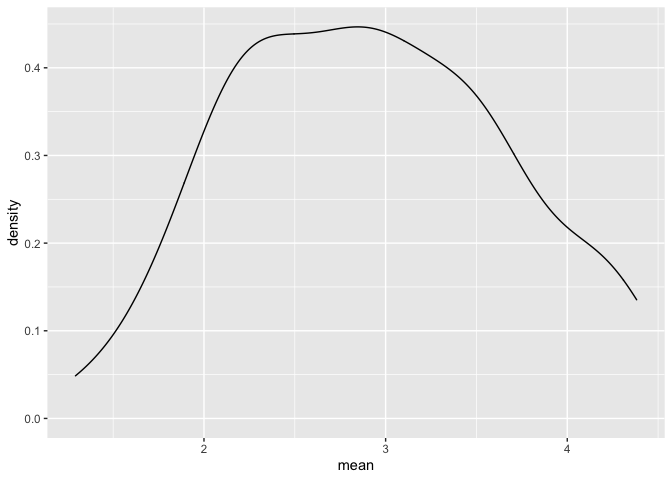
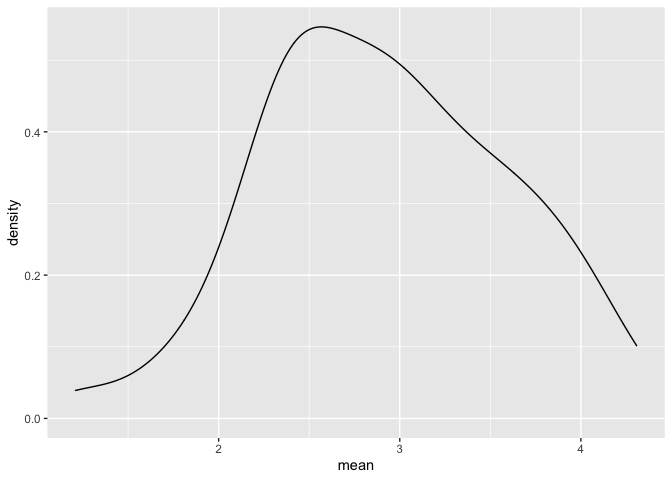
simulation df

diff --git a/iteration.md b/iteration.md
@@ -10,11 +10,11 @@ x_vec = rnorm(25, mean = 5, sd = 4)
 (x_vec - mean(x_vec)) / sd(x_vec)
 ```
 
-    ##  [1] -0.43711687 -0.14018392  1.70817417  1.08111861 -0.85543794 -2.03145792
-    ##  [7] -0.10826190 -0.33507591  1.14142730 -0.83336183 -0.90912969 -0.45192956
-    ## [13] -0.42626540 -0.06574881  0.39052190 -0.44820644 -0.81261562  0.23121242
-    ## [19] -0.04561811  0.47984147 -0.43971477  3.13999599  0.07801675  0.31258891
-    ## [25] -0.22277282
+    ##  [1] -0.83687228  0.01576465 -1.05703126  1.50152998  0.16928872 -1.04107494
+    ##  [7]  0.33550276  0.59957343  0.42849461 -0.49894708  1.41364561  0.23279252
+    ## [13] -0.83138529 -2.50852027  1.00648110 -0.22481531 -0.19456260  0.81587675
+    ## [19]  0.68682298  0.44756609  0.78971253  0.64568566 -0.09904161 -2.27133861
+    ## [25]  0.47485186
 
 ``` r
 z_scores = function(x){
@@ -25,24 +25,24 @@ z_scores = function(x){
 z_scores(x = x_vec)
 ```
 
-    ##  [1] -0.43711687 -0.14018392  1.70817417  1.08111861 -0.85543794 -2.03145792
-    ##  [7] -0.10826190 -0.33507591  1.14142730 -0.83336183 -0.90912969 -0.45192956
-    ## [13] -0.42626540 -0.06574881  0.39052190 -0.44820644 -0.81261562  0.23121242
-    ## [19] -0.04561811  0.47984147 -0.43971477  3.13999599  0.07801675  0.31258891
-    ## [25] -0.22277282
+    ##  [1] -0.83687228  0.01576465 -1.05703126  1.50152998  0.16928872 -1.04107494
+    ##  [7]  0.33550276  0.59957343  0.42849461 -0.49894708  1.41364561  0.23279252
+    ## [13] -0.83138529 -2.50852027  1.00648110 -0.22481531 -0.19456260  0.81587675
+    ## [19]  0.68682298  0.44756609  0.78971253  0.64568566 -0.09904161 -2.27133861
+    ## [25]  0.47485186
 
 ``` r
 y_vec = rnorm(40, mean = 12, sd = 0.3)
 z_scores(y_vec)
 ```
 
-    ##  [1]  0.35903309  0.98960614  2.24259130 -0.02563529  1.16494425  0.64489659
-    ##  [7] -0.81740437 -1.75539728 -0.04337247 -1.22376616  0.48605341  0.53102819
-    ## [13]  0.16518599 -0.24294157 -1.18129220 -0.65068383  0.67168690 -0.92735719
-    ## [19]  1.64619888  0.18732896  0.97675976 -1.55352996 -0.24180350  2.40391546
-    ## [25] -0.15068323 -0.43809521  0.94300981  1.35016536 -1.90006410 -0.08270438
-    ## [31] -0.34417728 -0.07313673 -0.77930603  0.52500601  0.03002733 -0.73349687
-    ## [37] -1.15657000 -0.67469356  0.17202799 -0.49335419
+    ##  [1] -0.2022306 -0.3204049 -1.8795425 -0.7026191  0.3598721  1.4753003
+    ##  [7] -0.2575539  0.3239812 -0.1994754 -1.7684514 -0.6277359 -0.6031866
+    ## [13] -0.2060066  1.1686154  0.7692145 -0.3307538 -0.4360887  0.6907069
+    ## [19]  0.5243537 -0.9523331 -0.9745524  0.2966039  0.7755665 -0.2688873
+    ## [25]  0.9090459  0.3363531 -0.8613556  0.2687848 -1.4747590  1.5634498
+    ## [31]  2.2124710 -0.5710916 -1.3737041  0.5398346 -0.2958126  2.7119068
+    ## [37] -0.1822057  0.6821414 -0.1024770 -1.0169742
 
 ``` r
 z_scores = function(x){
@@ -103,7 +103,7 @@ mean_and_sd(x_vec)
     ## # A tibble: 1 × 2
     ##    mean    sd
     ##   <dbl> <dbl>
-    ## 1  4.51  4.09
+    ## 1  5.67  3.80
 
 ``` r
 mean_and_sd(y_vec)
@@ -112,7 +112,7 @@ mean_and_sd(y_vec)
     ## # A tibble: 1 × 2
     ##    mean    sd
     ##   <dbl> <dbl>
-    ## 1  12.0 0.277
+    ## 1  12.0 0.253
 
 ## Different sample sizes, means, sds
 
@@ -132,7 +132,7 @@ sim_data %>%
     ## # A tibble: 1 × 2
     ##    mean    sd
     ##   <dbl> <dbl>
-    ## 1  1.80  2.82
+    ## 1  2.51  2.82
 
 function that simulates data, compute mean and sd.
 
@@ -156,7 +156,7 @@ sim_mean_sd(30, 4, 3)
     ## # A tibble: 1 × 2
     ##    mean    sd
     ##   <dbl> <dbl>
-    ## 1  3.92  3.44
+    ## 1  3.96  2.43
 
 ## Napoleon dynamics
 
@@ -257,14 +257,14 @@ l[[3]]
 ```
 
     ##    Min. 1st Qu.  Median    Mean 3rd Qu.    Max. 
-    ##  -3.796   2.818   4.972   4.889   6.894  13.554
+    ##  -4.024   2.746   4.892   4.912   7.065  16.431
 
 ``` r
 l[["summary"]]
 ```
 
     ##    Min. 1st Qu.  Median    Mean 3rd Qu.    Max. 
-    ##  -3.796   2.818   4.972   4.889   6.894  13.554
+    ##  -4.024   2.746   4.892   4.912   7.065  16.431
 
 ## List of normals
 
@@ -283,7 +283,7 @@ mean_and_sd(list_norms[[1]])
     ## # A tibble: 1 × 2
     ##    mean    sd
     ##   <dbl> <dbl>
-    ## 1  2.23 0.900
+    ## 1  1.71  1.00
 
 ## for loop
 
@@ -324,46 +324,47 @@ listcol_df %>% pull(norms)
 ```
 
     ## $a
-    ##  [1] 2.6903686 1.8253004 3.8271614 3.9130585 1.6992286 2.6959533 1.7762231
-    ##  [8] 2.6260563 0.7852765 3.0545501 0.9199900 2.1489123 1.6494497 2.6229096
-    ## [15] 2.3260358 4.2650253 2.5246871 3.2135467 2.7642194 2.5262783 2.0420693
-    ## [22] 2.6759306 1.9525130 2.7255379 1.3621091 1.6878070 2.7065168 1.0310138
-    ## [29] 0.0703726 2.5024660 3.1538021 2.5860972 1.1614528 0.9235214 1.0752719
-    ## [36] 3.7547171 2.4260437 2.3773982 2.7135119 0.2397341 2.5691171 1.8562197
-    ## [43] 2.0951570 1.4787562 2.1722275 3.1790355 2.5122115 2.7377488 2.4964681
-    ## [50] 1.4206862
+    ##  [1]  0.7410786  1.7846155 -0.4719617  1.3258307  1.4987028  3.5423258
+    ##  [7]  1.0379819  1.1278205  0.6023704  2.1798052  3.1540920  0.8014664
+    ## [13]  1.5742756  3.3663086  1.3157026  2.6855122  2.3895035  0.6946041
+    ## [19]  3.2168880  2.7951740  1.5117975  1.0960065  1.6095816  2.8140634
+    ## [25]  1.4357507  0.1257947  1.8570953  2.7719040  0.8408821  1.7620845
+    ## [31]  0.7778067  2.1168062  1.8675004  1.9663152  1.3776736  1.2906365
+    ## [37]  2.8714454  2.1051380  1.8130647 -1.2131885  0.7243813  2.7629063
+    ## [43]  1.5931849  0.7916822  1.5606773  1.6244193  1.4985576  2.4966126
+    ## [49]  3.5208809  2.9880918
     ## 
     ## $b
-    ##  [1]  9.6594668  6.4046556  4.7300039  5.5892436  6.6958655  8.5531960
-    ##  [7]  8.4249796  4.3823460 -1.2457299  6.7868122  4.2415377  3.7271447
-    ## [13]  0.7949788  4.6949061  3.5135336 -2.5040186  1.4359849 12.3706074
-    ## [19]  6.0332532  5.2380276  3.7485568  8.9307606  3.4700870  2.3586212
-    ## [25]  8.2269017  8.0010642  4.1566152  3.4861122  8.1704887  1.1670985
-    ## [31]  7.7014087  9.9658587  2.8622266  2.2627031  4.1353049  7.1668366
-    ## [37]  8.1889401  4.9537960  2.5133060  2.6531727 10.4746371  3.7691169
-    ## [43]  9.7532999  4.6105855  1.2029883  2.5852074  4.4814050  2.5515313
-    ## [49] -3.0417780  6.3206888
+    ##  [1]  8.7383676  4.0103980  7.5330341  2.0567727  4.5823358 11.5563137
+    ##  [7]  4.9615160  4.0840732  3.2473596  7.3138055 11.3185681  6.2364711
+    ## [13]  4.2162054 11.2213509  2.6635093  8.3945975  3.7359646  1.9347579
+    ## [19]  8.6549161 -0.3992820  4.0752502  5.0465457  3.6730468  0.0859768
+    ## [25]  3.0757965  0.3288928 10.7694910 -0.5704889 -1.3183553  7.0929456
+    ## [31]  7.7223332  4.4120354  4.3795385  7.1751295  9.1961569  0.2283346
+    ## [37]  8.9134912  5.5880352  3.9819697  8.7954324  7.8193211  8.8338575
+    ## [43]  4.1265196  7.3285173  5.8871769  3.4484013 10.2716991  5.4851805
+    ## [49]  4.8359469  6.5869148
     ## 
     ## $c
-    ##  [1]  9.478453 11.561954  9.547016  9.857999 10.741062 10.220948 10.862210
-    ##  [8]  7.698177  9.849106  9.476663 11.328898 10.931334 11.420621 10.278794
-    ## [15] 10.435565  9.208590 10.539227  9.323899  8.177762  8.700510  9.168897
-    ## [22] 10.008930 12.099150  8.907996  8.923615 11.165103  8.539796  8.718438
-    ## [29] 11.364123 10.681480 12.780718  9.857491  9.567151  6.653682  7.780054
-    ## [36] 10.040382 10.126318 12.598828  8.997552 13.103531  8.804086  9.852558
-    ## [43] 12.179140  7.498842  9.908912 11.151204  8.762803  7.865865  9.208216
-    ## [50]  9.811679
+    ##  [1] 10.584602  8.941343  9.920232 13.909667  9.891110  9.555592 11.101496
+    ##  [8] 10.602221  9.192548  8.375916 11.271702 10.178268 10.723371  9.563013
+    ## [15]  7.521835 10.103642 13.585865  7.807342  8.522791  7.995919  9.452303
+    ## [22] 12.072181  9.770024  9.616643  8.067059 10.097900 11.552990 13.390324
+    ## [29] 11.972044  8.694965  9.245305 10.911183  9.984938 10.412995  8.031552
+    ## [36]  9.360205  8.610394  8.607163  8.921649  9.377814  9.991498 10.950173
+    ## [43]  9.236229  8.714487 12.424251 11.490800 11.045269 12.549956  8.533387
+    ## [50] 13.073226
     ## 
     ## $d
-    ##  [1]  -4.708969  -9.261615  -9.896189  -3.537905  -8.453213  -8.345434
-    ##  [7]  -9.634360  -1.217333  -6.232883  -2.795823  -7.644747  -1.807396
-    ## [13]  -4.353945  -2.311417  -6.464605  -4.472553 -10.863738  -9.976872
-    ## [19] -10.296643  -7.078749  -4.853668 -11.388467  -4.110038  -4.611866
-    ## [25]  -3.768028  -4.590293 -15.266061 -10.056638   1.635761  -6.727535
-    ## [31]  -3.441512 -14.609772 -16.661974  -6.306116 -12.110433  -9.443734
-    ## [37]  -6.934991  -9.040049  -3.934465  -3.790642  -3.174336  -5.367005
-    ## [43]  -6.796617 -11.806060 -10.892601  -4.379100 -13.010142 -15.723184
-    ## [49] -10.703635  -1.209279
+    ##  [1]  -3.0942027  -6.7719080  -5.5026681  -7.7546342  -8.4433032 -14.3049342
+    ##  [7]  -5.0296406   0.5692936   0.3590918  -7.3208227  -8.4315112  -7.2720220
+    ## [13]  -3.4162873  -2.0908047  -6.3682234  -3.5428851  -8.1083034  -6.0091112
+    ## [19]  -3.2574399   6.5582945  -8.2160104 -10.6725893  -6.2167682  -9.6233010
+    ## [25]  -5.4588674  -6.6350064  -2.7353313 -11.8391059 -12.8223008  -1.7297078
+    ## [31]  -7.0988568 -11.6896426 -12.2950896 -10.2094331  -5.6381544 -10.1091016
+    ## [37]  -2.6326153  -7.0246215  -7.2164768  -8.0620789  -9.1903093  -8.6707166
+    ## [43]  -3.3740857 -13.3550560  -3.6529249  -9.4027368  -5.0611070  -8.2336579
+    ## [49] -13.3832516  -6.6123789
 
 ``` r
 listcol_df %>% filter(name == "a")
@@ -687,7 +688,7 @@ napoleon_df %>%
     ## 10 Classic Film                                          5.0 ou… "\n  Had to or…
     ## # … with 40 more rows
 
-Simulation
+## Simulation
 
 start with a for loop
 
@@ -704,16 +705,16 @@ bind_rows(output)
     ## # A tibble: 100 × 2
     ##     mean    sd
     ##    <dbl> <dbl>
-    ##  1  2.95  3.50
-    ##  2  2.89  3.70
-    ##  3  1.83  4.44
-    ##  4  3.43  3.65
-    ##  5  2.00  3.76
-    ##  6  3.06  3.48
-    ##  7  3.31  4.47
-    ##  8  3.67  3.07
-    ##  9  3.57  3.68
-    ## 10  3.47  3.57
+    ##  1  1.73  3.61
+    ##  2  1.98  3.42
+    ##  3  2.50  3.31
+    ##  4  4.86  4.66
+    ##  5  2.36  4.25
+    ##  6  3.32  3.27
+    ##  7  3.26  4.67
+    ##  8  3.29  3.33
+    ##  9  2.58  4.40
+    ## 10  2.69  3.96
     ## # … with 90 more rows
 
 use a loop function
@@ -744,7 +745,7 @@ sim_results %>%
     ## # A tibble: 1 × 2
     ##   avg_sample_mean ad_samp_mean
     ##             <dbl>        <dbl>
-    ## 1            2.92        0.742
+    ## 1            2.91        0.671
 
 ``` r
 sim_results %>% 
@@ -752,3 +753,66 @@ sim_results %>%
 ```
 
 ![](iteration_files/figure-gfm/unnamed-chunk-18-2.png)<!-- -->
+
+## try other sample sizes
+
+``` r
+n_list = list(
+  "n = 30" = 30,
+  "n = 60" = 60,
+  "n = 120" = 120,
+  "n = 240" = 240
+)
+
+output = vector("list", length = 4)
+
+output[[1]] = rerun(100, sim_mean_sd(n = n_list[[1]], 3, 4)) %>% bind_rows()
+
+for(i in 1:4){
+  output[[i]] = rerun(100, sim_mean_sd(n = n_list[[i]], 3, 4)) %>% 
+    bind_rows()
+}
+```
+
+``` r
+sim_results = tibble(
+  sample_size = c(30, 60, 120, 240)
+) %>% 
+  mutate(
+    output_lists = map(.x = sample_size, ~rerun(1000, sim_mean_sd(.x, 3, 4))),
+    estimate_df = map(output_lists, bind_rows)
+  ) %>% 
+  select(-output_lists) %>% 
+  unnest(estimate_df)
+```
+
+some df things
+
+``` r
+sim_results %>% 
+  mutate(
+    sample_size = str_c("n =", sample_size),
+    sample_size = fct_inorder(sample_size)
+  ) %>% 
+  ggplot(aes(x = sample_size, y = mean)) +
+  geom_violin()
+```
+
+![](iteration_files/figure-gfm/unnamed-chunk-21-1.png)<!-- -->
+
+``` r
+sim_results %>% 
+  group_by(sample_size) %>% 
+  summarize(
+    avg_samp_mean = mean(mean),
+    sd_sample_mean = sd(mean)
+  )
+```
+
+    ## # A tibble: 4 × 3
+    ##   sample_size avg_samp_mean sd_sample_mean
+    ##         <dbl>         <dbl>          <dbl>
+    ## 1          30          3.00          0.724
+    ## 2          60          3.02          0.512
+    ## 3         120          2.99          0.378
+    ## 4         240          3.00          0.263
